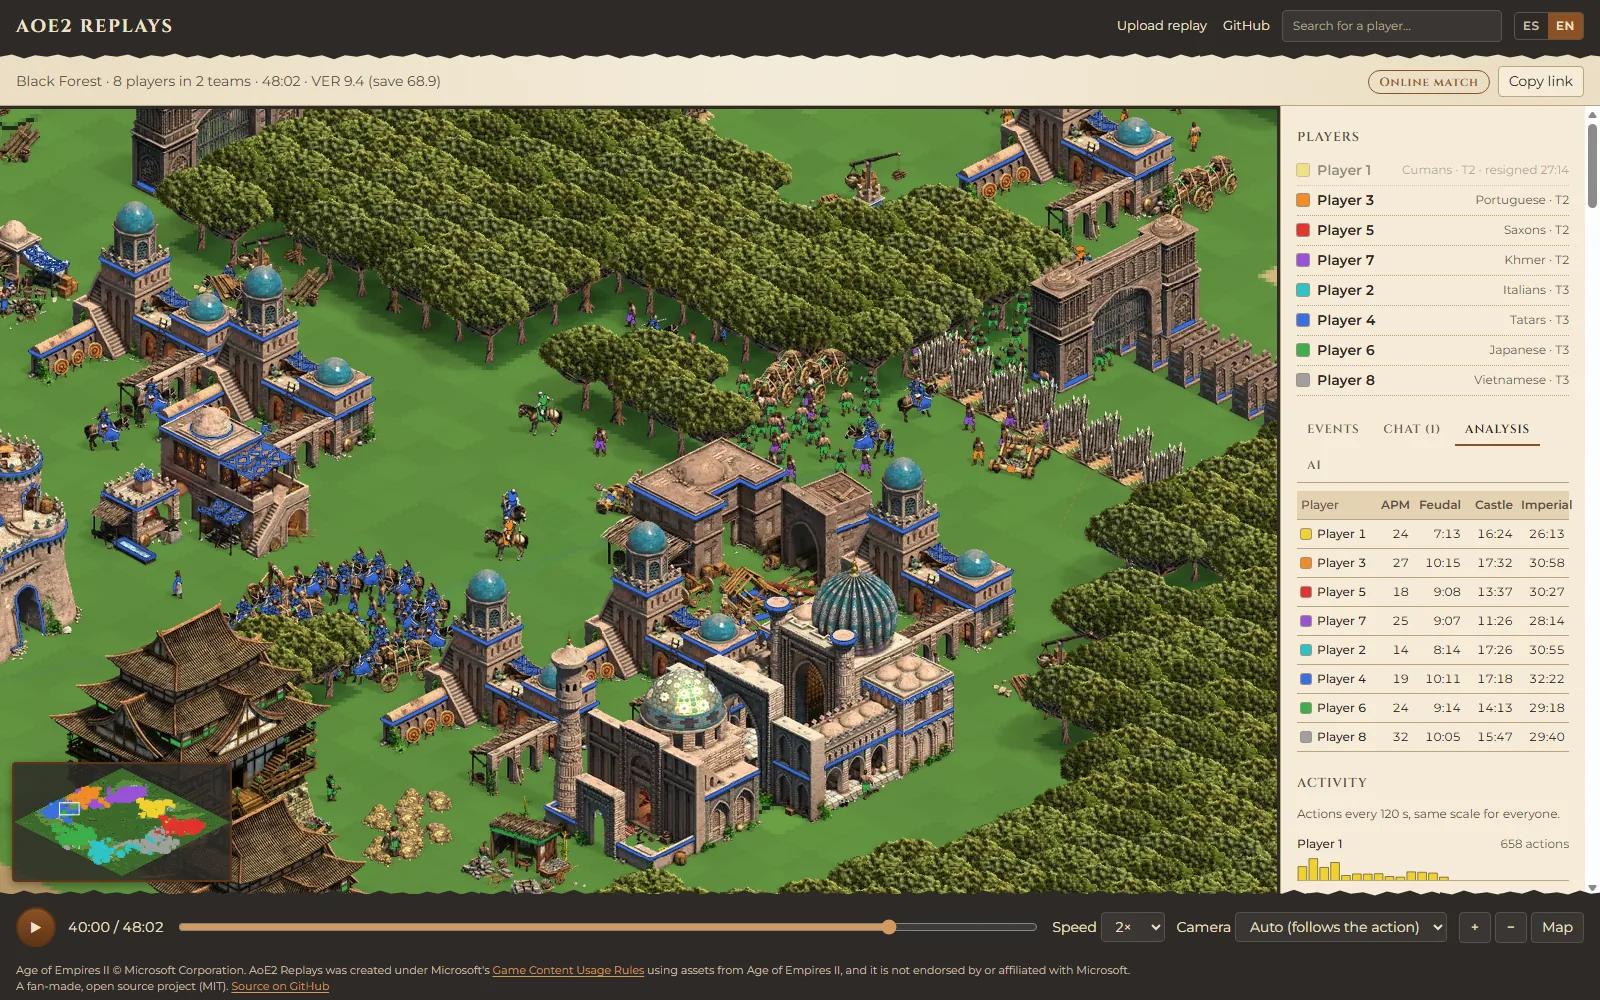
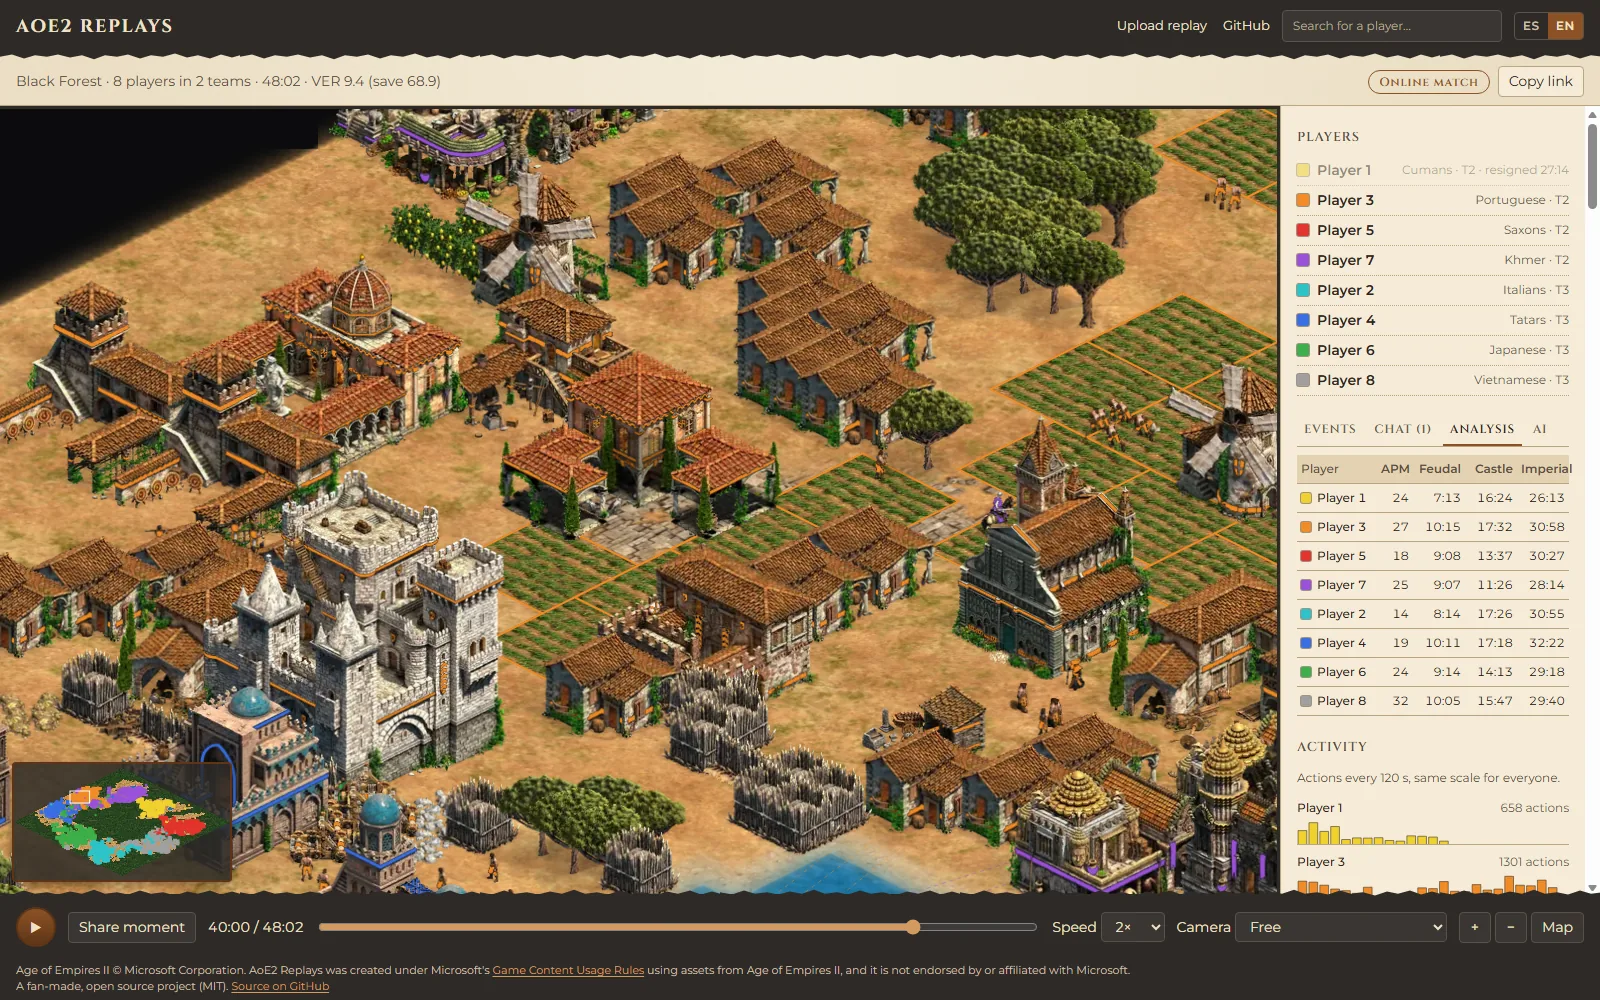
New screenshots with game terrain; plan for accounts and favorites
- README, home page, Open Graph image and GitHub social preview retaken from
  the anonymized demo match, with the terrain textures and the new controls
- tasks/13-cuentas.md: optional login (Steam, Discord, Google with Auth.js),
  linking the AoE2 profile (verified through Steam), favorite players,
  matches and moments, "my replays", privacy and security checklist

diff --git a/apps/web/src/i18n/messages.ts b/apps/web/src/i18n/messages.ts
@@ -8,7 +8,7 @@ export const DEFAULT_LOCALE: Locale = "en";
 const es = {
   meta: {
     description: "Visor y análisis de replays de Age of Empires II: Definitive Edition.",
-    imageAlt: "El visor reproduciendo una partida de 8 jugadores, con el panel de análisis",
+    imageAlt: "El visor reproduciendo una partida: una ciudad portuguesa con su castillo en Edad Imperial",
   },
   nav: {
     upload: "Subir replay",
@@ -269,7 +269,7 @@ export type Messages = typeof es;
 const en: Messages = {
   meta: {
     description: "Replay viewer and analysis for Age of Empires II: Definitive Edition.",
-    imageAlt: "The viewer playing back an 8-player match, with the analysis panel",
+    imageAlt: "The viewer playing back a match: a Portuguese town with its castle in Imperial Age",
   },
   nav: {
     upload: "Upload replay",

diff --git a/tasks/13-cuentas.md b/tasks/13-cuentas.md
@@ -1,0 +1,49 @@
+# Fase 13: Cuentas, perfil de jugador y favoritos
+
+Objetivo: que quien quiera pueda tener una cuenta para guardar lo suyo (replays, favoritos, su perfil de AoE2), sin que la cuenta sea obligatoria para nada de lo que hoy funciona sin ella: subir, mirar y buscar siguen siendo anónimos.
+
+## Decisiones a tomar (tuyas)
+- [ ] **Cómo se inicia sesión.** Propuesta: Auth.js (NextAuth v5) con proveedores OAuth, sin contraseñas propias que custodiar:
+  - **Steam** (OpenID): es la cuenta con la que juega casi todo el mundo y sirve además para vincular el perfil de AoE2 (ver abajo).
+  - **Discord** y **Google** como alternativas.
+  - Sin email/contraseña al principio (menos superficie de ataque y sin recuperación de contraseñas que mantener).
+- [ ] ¿Los replays de cuentas registradas expiran? (pregunta abierta en `docs/DECISIONS.md`). Propuesta: no expiran mientras la cuenta exista, con un tope por cuenta (por ejemplo 200).
+- [ ] Datos mínimos que se guardan y página de privacidad (qué se guarda, cómo borrar la cuenta).
+
+## Base
+- [ ] Auth.js con el adaptador de Prisma: tablas `User`, `Account`, `Session` (migración nueva). Sesiones en base de datos, cookie `httpOnly`, `secure`, `sameSite=lax`.
+- [ ] Variables nuevas en `.env.example` y `docs/DEPLOY.md` (`AUTH_SECRET`, claves de cada proveedor); registrar las dependencias en `docs/LEGAL.md`.
+- [ ] Botón "Entrar" en la barra superior y menú de cuenta (mis replays, favoritos, mi perfil, salir), en los dos idiomas.
+- [ ] Revisar la CSP (`next.config.ts`) para los redireccionamientos de los proveedores.
+- [ ] Borrar la cuenta: elimina sus datos y sus replays privados; los públicos se pueden conservar anónimos o borrar (elige el usuario).
+
+## Vincular mi perfil de AoE2
+- [ ] **Con Steam**: el inicio de sesión da el SteamID; aoe2companion permite buscar el `profileId` por SteamID, así que el vínculo es verificado (no hace falta confiar en lo que escriba el usuario).
+- [ ] Sin Steam (Xbox / Microsoft Store): vínculo **sin verificar** eligiendo el perfil en el buscador, marcado como tal. Más adelante, verificación con algo que solo el dueño puede hacer (por ejemplo, poner un código en el nombre de una partida privada).
+- [ ] Un perfil de AoE2 se puede vincular verificado a una sola cuenta.
+- [ ] Con el perfil vinculado:
+  - "Mis partidas" en el menú, que lleva a `/p/<profileId>` con accesos rápidos.
+  - Avisos opcionales cuando termina una partida nueva (más adelante; necesita sondear aoe2companion con cuidado de los límites).
+  - En `/p/<id>`, insignia "verificado" si el perfil pertenece a una cuenta.
+
+## Favoritos y listas
+- [ ] **Jugadores favoritos**: estrella en `/p/<id>`; la portada muestra sus últimas partidas (con caché, respetando los límites de aoe2companion).
+- [ ] **Partidas favoritas**: estrella en `/m/<id>` y `/r/<id>` (solo si quien la marca puede verla).
+- [ ] **Momentos guardados**: guardar un `?t=` con una nota corta ("la pelea en el centro"), para volver o compartir.
+- [ ] Página "Favoritos" con pestañas (jugadores, partidas, momentos).
+- [ ] Sin cuenta: favoritos en el navegador (`localStorage`), como hoy "Tus replays en este navegador"; al iniciar sesión, ofrecer pasarlos a la cuenta.
+
+## Mis replays
+- [ ] Los replays subidos con sesión iniciada quedan asociados a la cuenta: "Mis replays" con todos, sin depender del navegador ni del enlace de gestión.
+- [ ] Reclamar replays subidos antes sin cuenta (con su enlace de gestión `#k=`).
+- [ ] Gestión desde la cuenta: hacer público/privado, borrar, renombrar.
+
+## Seguridad y privacidad
+- [ ] Protección CSRF en las rutas que cambian datos (Auth.js la trae para sus rutas; las propias, con verificación de origen).
+- [ ] Límites por cuenta además de por IP (subidas, favoritos).
+- [ ] No exponer el email ni el SteamID en páginas públicas.
+- [ ] Repetir la revisión de seguridad de la fase 11 para todo lo nuevo.
+- [ ] Tests de la API: permisos (un usuario no puede ver ni tocar lo de otro), borrado de cuenta.
+
+## Más adelante
+- Comentarios en momentos de una partida, listas compartidas ("mejores partidas de X"), seguir a otros usuarios. Necesitan moderación: decidir antes de hacerlo.

diff --git a/README.es.md b/README.es.md
@@ -8,7 +8,7 @@ Subí un replay o buscá a cualquier jugador, y reproducí su partida en el mapa
 
 [**Abrir la web →**](https://aoe2replays.sitemaster.com.ar/) · [English](README.md) · [Cómo colaborar](CONTRIBUTING.md)
 
-![El visor en Edad Imperial: una ciudad centroasiática, un castillo japonés y un ejército, con el panel de análisis abierto](docs/screenshots/viewer-analysis.webp)
+![El visor en Edad Imperial: una ciudad portuguesa con su castillo, granjas y mercado, con el panel de análisis abierto](docs/screenshots/viewer-analysis.webp)
 
 </div>
 
@@ -16,8 +16,8 @@ Subí un replay o buscá a cualquier jugador, y reproducí su partida en el mapa
 
 | | |
 |---|---|
-| ![Aldeanos cultivando junto a una base cumana](docs/screenshots/farms.webp) | **Mirala como en el juego.** Vista isométrica con los sprites del juego: edificios por civilización y edad, aldeanos talando, minando, cultivando y construyendo, unidades que salen del edificio correcto, árboles que caen a medida que se talan. La cámara sigue la acción sola, o al jugador que elijas. |
-| ![Mapa completo de una partida de 8 jugadores](docs/screenshots/map.webp) | **Todo el mapa de un vistazo.** Alejate para ver cómo se reparte el mapa, saltá a cualquier lugar con el minimapa y a cualquier momento con la línea de tiempo. Compartí un momento con `?t=<segundos>`. |
+| ![Granjas y centro urbano jemer, con aldeanos trabajando](docs/screenshots/farms.webp) | **Mirala como en el juego.** Vista isométrica con los sprites del juego: edificios por civilización y edad, aldeanos talando, minando, cultivando y construyendo, unidades que salen del edificio correcto, árboles que caen a medida que se talan. La cámara sigue la acción sola, o al jugador que elijas. |
+| ![Mapa completo de una partida de 8 jugadores](docs/screenshots/map.webp) | **Todo el mapa de un vistazo.** Alejate para ver cómo se reparte el mapa, saltá a cualquier lugar con el minimapa y a cualquier momento con la línea de tiempo. Compartí cualquier momento con un clic (un enlace con `?t=<segundos>`). |
 | ![Portada con el buscador de jugadores](docs/screenshots/home.webp) | **Partidas online sin subir nada.** Buscá a cualquier jugador (con autocompletado), mirá sus rankings y partidas recientes y abrí cualquiera: el replay se descarga del servicio público de replays de Microsoft. |
 
 Y además:

diff --git a/tasks/PENDIENTES.md b/tasks/PENDIENTES.md
@@ -5,10 +5,13 @@ Separados entre lo que necesita una decisión o acción tuya y lo que se puede a
 ## Repo abierto
 El repo es público desde octubre de 2026. Lo que queda de seguridad e infraestructura está en [11-apertura-publica](./11-apertura-publica.md); la migración a Next 16 en [12-next-16](./12-next-16.md).
 
+## Plan nuevo: cuentas
+Login opcional (Steam, Discord, Google), vincular el perfil de AoE2, favoritos de jugadores, partidas y momentos, y "Mis replays": [13-cuentas](./13-cuentas.md). Antes de empezar hay que decidir los proveedores de login y si los replays de cuentas expiran.
+
 ## Próxima sesión
 Quedó a medio revisar o detectado al cerrar la sesión del 29/10/2026:
-- [ ] **Capturas desactualizadas**: las de `docs/screenshots`, `public/images/visor`, `og.jpg` y la vista previa de GitHub son de antes de las texturas de terreno. Rehacerlas desde la web con la partida de demo anonimizada (necesita Docker con la base local).
-- [ ] **GitHub**: subir la imagen de Settings → Social preview y publicar un primer Release (por ejemplo `v0.1.0`).
+- [x] **Capturas desactualizadas** (rehechas el 30/10/2026 con el terreno nuevo): las de `docs/screenshots`, `public/images/visor`, `og.jpg` y la vista previa de GitHub son de antes de las texturas de terreno. Rehacerlas desde la web con la partida de demo anonimizada (necesita Docker con la base local).
+- [ ] **GitHub**: subir la imagen de Settings → Social preview (nueva, con el terreno) y publicar un primer Release (por ejemplo `v0.1.0`).
 - [x] **Muros**: las diagonales estaban invertidas (corregido), los tramos escalonados se ven continuos y las puertas reemplazan los tramos de muro que tapan.
 - [ ] **Puertas**: en `long.json` una puerta "n" (673) cae en un muro horizontal en pantalla; revisar si la orientación de las puertas (`ne`, `se`, `e`, `n`) coincide con la del juego.
 - [~] **Tipo de unidad mal asignado**: los IDs nuevos se vinculan con la unidad más vieja del jugador. Ya se usa el tipo de orden como pista (construir/recolectar → aldeano, atacar → militar) y barcos pesqueros y carretas no atacan, pero si la primera orden es un `MOVE` no hay pista. Siguiente paso: usar el orden de los IDs (el juego los asigna en orden de creación) para emparejarlos con el orden de entrenamiento.

diff --git a/README.md b/README.md
@@ -8,7 +8,7 @@ Upload a replay or search for any player, and play their match back on the map w
 
 [**Open the app →**](https://aoe2replays.sitemaster.com.ar/) · [Español](README.es.md) · [Contributing](CONTRIBUTING.md)
 
-![The viewer in Imperial Age: a Central Asian city, a Japanese castle and an army, with the analysis panel open](docs/screenshots/viewer-analysis.webp)
+![The viewer in Imperial Age: a Portuguese town with its castle, farms and market, with the analysis panel open](docs/screenshots/viewer-analysis.webp)
 
 </div>
 
@@ -16,8 +16,8 @@ Upload a replay or search for any player, and play their match back on the map w
 
 | | |
 |---|---|
-| ![Villagers farming next to a Cuman base](docs/screenshots/farms.webp) | **Watch it like in the game.** Isometric view with the game's sprites: buildings by civilization and age, villagers chopping, mining, farming and building, trained units coming out of the right building, trees falling as they're cut. The camera follows the action on its own, or follows the player you pick. |
-| ![Whole map of an 8-player match](docs/screenshots/map.webp) | **The whole map at a glance.** Zoom out to see how the map is split, jump anywhere with the minimap and anywhere in time with the timeline. Share a moment with `?t=<seconds>`. |
+| ![Khmer farms and town center, with villagers at work](docs/screenshots/farms.webp) | **Watch it like in the game.** Isometric view with the game's sprites: buildings by civilization and age, villagers chopping, mining, farming and building, trained units coming out of the right building, trees falling as they're cut. The camera follows the action on its own, or follows the player you pick. |
+| ![Whole map of an 8-player match](docs/screenshots/map.webp) | **The whole map at a glance.** Zoom out to see how the map is split, jump anywhere with the minimap and anywhere in time with the timeline. Share any moment with one click (a link with `?t=<seconds>`). |
 | ![Home page with player search](docs/screenshots/home.webp) | **Online matches, no upload needed.** Search any player (autocomplete), see their ratings and recent matches, and open any of them: the replay is fetched from Microsoft's public replay service. |
 
 And also:

diff --git a/tasks/03-web.md b/tasks/03-web.md
@@ -12,7 +12,7 @@
 - [~] Errores con mensaje claro (hecho); estados `pending`/`ready`/`failed` llegan con la cola
 - [x] Página del replay `/r/<id>` con el visor
 - [x] Privacidad: privado por defecto (404 si no tenés el token); enlace público con id de 128 bits
-- [ ] Auth.js: registro y login opcionales
+- [ ] Auth.js: registro y login opcionales (plan completo en [13-cuentas](./13-cuentas.md))
 - [~] "Tus replays en este navegador" sin cuenta (hecho); "Mis replays" con cuenta, pendiente
 - [ ] Reclamar un replay anónimo al registrarse
 - [~] Contenedores y compose para Dokploy con migraciones automáticas (escritos; falta el primer deploy real, ver `docs/DEPLOY.md`)
